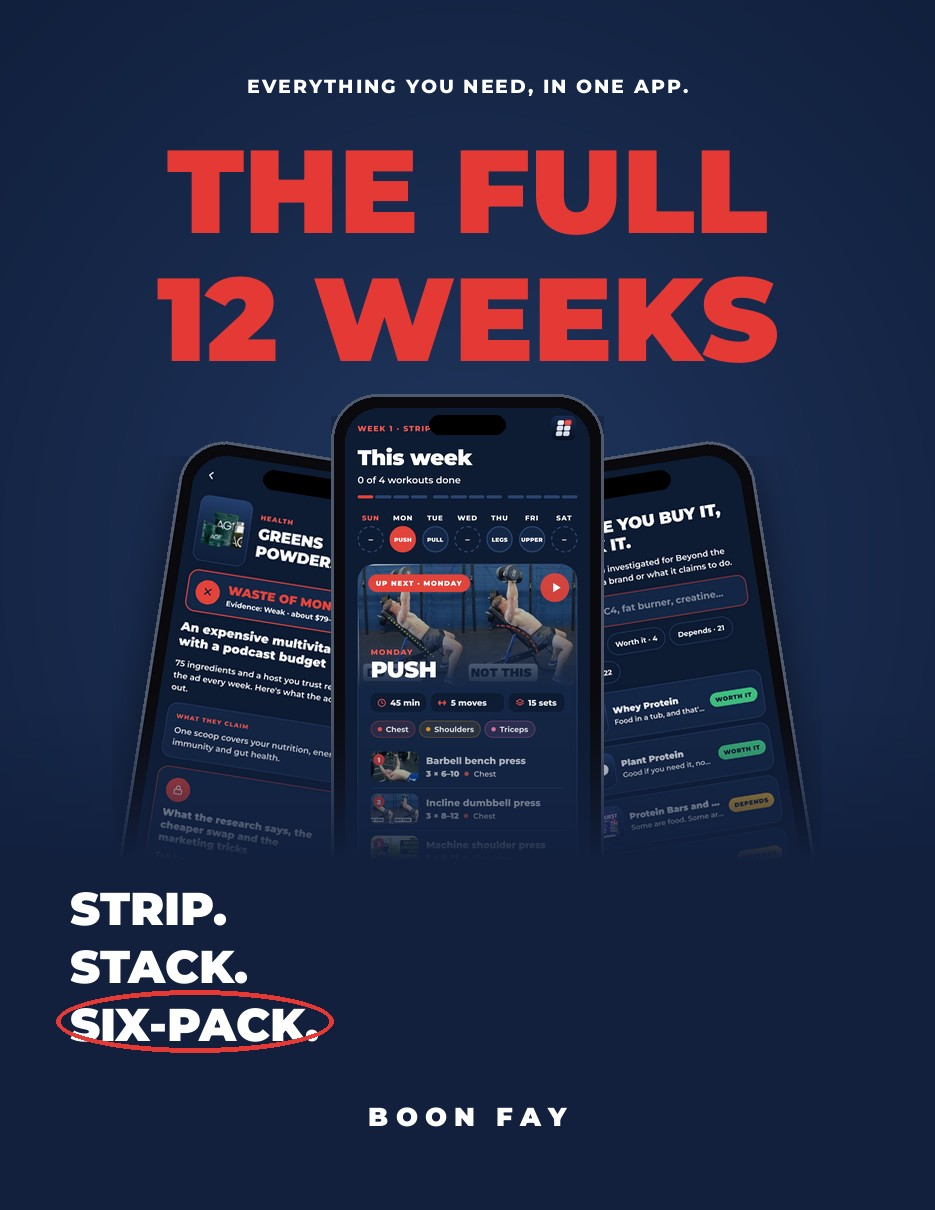
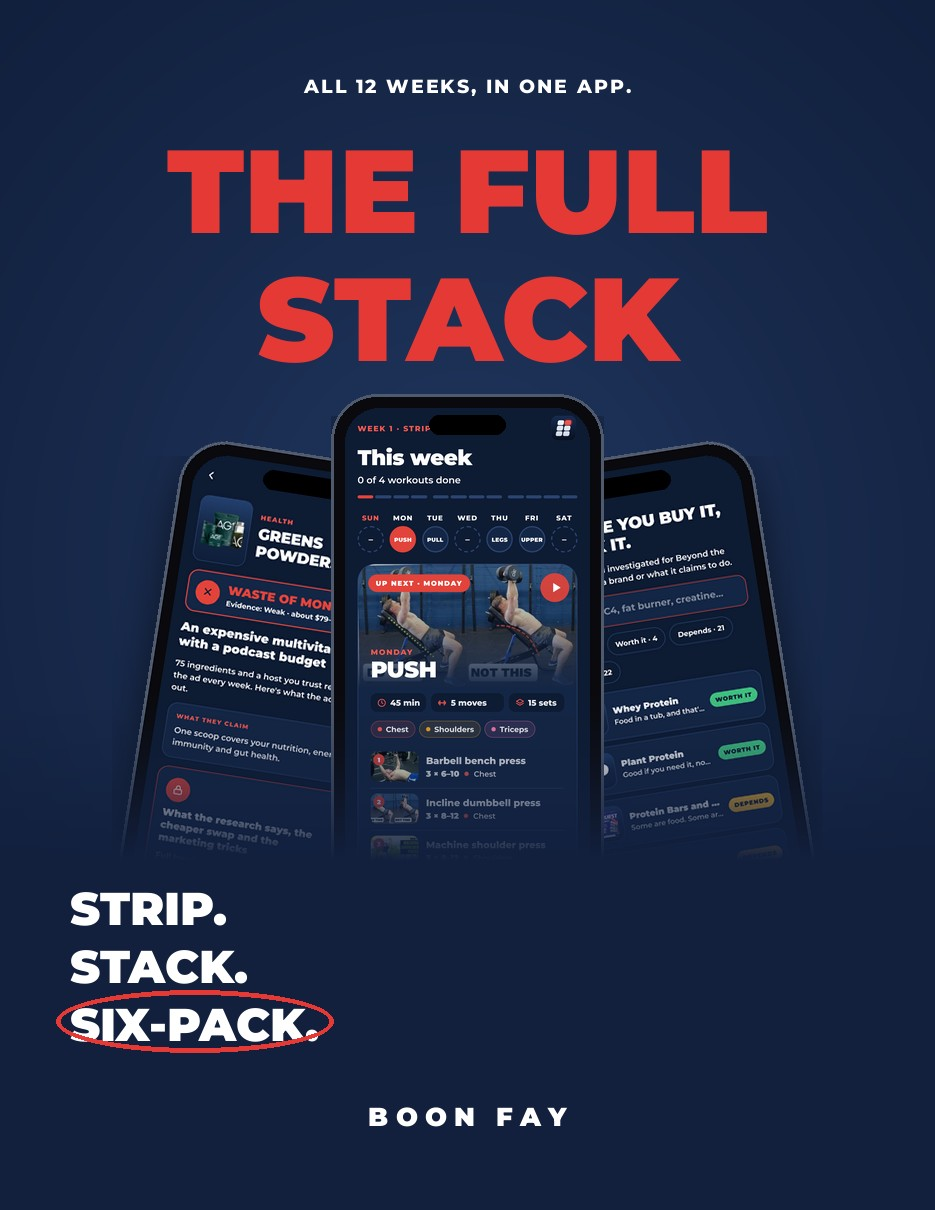
Rename offers: The Free Stack (2 weeks free) and The Full Stack (12 weeks); new Full Stack cover
Claude-Session: https://claude.ai/code/session_01Bf86E4ucw6eJutAMhaLVMs

Changed region(s): [[0.1551, 0.214, 0.8374, 0.3058], [0.2481, 0.0612, 0.7444, 0.0917]]

diff --git a/app/(tabs)/boon.tsx b/app/(tabs)/boon.tsx
@@ -25,7 +25,7 @@ export default function Boon() {
   const router = useRouter();
   const free = isFree(profile);
   const coached = isCoached(profile) || profile?.role === 'coach';
-  const sub = !free && !coached; // Full 12-Week Program subscriber
+  const sub = !free && !coached; // The Full Stack subscriber
 
   useFocusEffect(useCallback(() => {
     if (!session) return;
@@ -41,7 +41,7 @@ export default function Boon() {
         {free || sub ? (
           <HeroCard image={FACE_IMG} imageRatio={16 / 9} title="Want me in your corner?"
             subtitle={sub
-              ? "You've got the full program. If you want me reviewing your check-ins every Sunday and answering you on WhatsApp, you get $100 off coaching. Mention it in your application."
+              ? "You've got The Full Stack. If you want me reviewing your check-ins every Sunday and answering you on WhatsApp, you get $100 off coaching. Mention it in your application."
               : "I audit your supplements, build your plan around your life, review your check-in every Sunday and answer you on WhatsApp."}
             cta="See how coaching works" onPress={() => Linking.openURL(COACHING_URL)} />
         ) : (
@@ -62,7 +62,7 @@ export default function Boon() {
         <>
           <Eyebrow>Your program</Eyebrow>
           <Card>
-            <Text style={ui.label}>The Full 12-Week Program</Text>
+            <Text style={ui.label}>The Full Stack</Text>
             <Body>All 12 weeks are unlocked: your training, your meal plan, eating-out orders, the grocery list and every Stack Check verdict. Your calories re-set at weeks 4 and 8, so do your Sunday check-in.</Body>
           </Card>
           <CoachingCard />

diff --git a/app/lead.tsx b/app/lead.tsx
@@ -10,9 +10,9 @@ import { BackIcon, CheckIcon } from '../src/components/icons';
 import { captureLead, readLead, Want } from '../src/lib/lead';
 
 const COPY: Record<Want, { k: string; h: string; sub: string; cta: string; next: string }> = {
-  plan: { k: 'Your first 2 weeks free', h: 'Where should I send your plan?', sub: 'Next: a 2-minute quiz, then your plan is built from your answers.', cta: 'Build my plan', next: '/quiz' },
+  plan: { k: 'The Free Stack · 2 weeks free', h: 'Where should I send your plan?', sub: 'Next: a 2-minute quiz, then your plan is built from your answers.', cta: 'Build my plan', next: '/quiz' },
   btl: { k: 'Beyond the Label', h: 'Where should I send it?', sub: "You'll see everything inside Beyond the Label next.", cta: 'Show me', next: '/btl' },
-  sub: { k: 'The full app', h: 'Where should I send your plan?', sub: 'Next: a 2-minute quiz to build your plan. Weeks 1 and 2 are free, then unlock all 12 weeks.', cta: 'Build my plan', next: '/quiz' },
+  sub: { k: 'The Full Stack', h: 'Where should I send your plan?', sub: 'Next: a 2-minute quiz to build your plan. Weeks 1 and 2 are free, then unlock all 12 weeks.', cta: 'Build my plan', next: '/quiz' },
   coaching: { k: '1:1 coaching', h: 'Where should I send the details?', sub: "Next: everything you get with 1:1 coaching, and the Abs or It's Free guarantee.", cta: 'Show me', next: 'coaching' },
 };
 

diff --git a/app/welcome.tsx b/app/welcome.tsx
@@ -14,9 +14,9 @@ const LOGO = require('../assets/logo-b.png');
 
 
 const PATHS: { want: Want; img: ImageSourcePropType; tag: string; price: string; title: string; line: string; contain?: boolean }[] = [
-  { want: 'plan', img: PLAN, tag: 'Start here', price: 'Free', title: 'Try the plan free', line: 'Your calories, your meals and your first 2 weeks of training, built from a 2-minute quiz.' },
+  { want: 'plan', img: PLAN, tag: 'Start here', price: 'Free', title: 'The Free Stack', line: 'Your first 2 weeks free: your calories, your meals and your training, built from a 2-minute quiz.' },
   { want: 'btl', img: BTL, tag: 'The guide', price: '$39.99', title: 'Beyond the Label', line: 'What actually works out of 40+ supplements and gadgets, and what\'s marketing.' },
-  { want: 'sub', img: APP, tag: 'Best value', price: '$19.99/mo', title: 'The Full 12-Week Program', line: 'Everything you need to finish the 12 weeks on your own. Or $99 a year ($1.90 a week).' },
+  { want: 'sub', img: APP, tag: 'Best value', price: '$19.99/mo', title: 'The Full Stack', line: 'All 12 weeks: everything you need to finish on your own. Or $99 a year ($1.90 a week).' },
   { want: 'coaching', img: COACH, tag: '1:1 with Boon', price: 'Apply', title: 'Six-Pack Stack Coaching', line: 'I audit your stack, build your plan and check in with you every Sunday for 12 weeks.' },
 ];
 

diff --git a/src/components/Offers.tsx b/src/components/Offers.tsx
@@ -36,8 +36,8 @@ export function SubscriptionCard({ onStart }: { onStart?: (plan: 'yearly' | 'mon
   return (
     <View style={[st.card, { borderColor: C.red }]}>
       <Cover src={PROGRAM_IMG} />
-      <Text style={st.kicker}>The full app</Text>
-      <Text style={st.title}>The Full 12-Week Program</Text>
+      <Text style={st.kicker}>All 12 weeks</Text>
+      <Text style={st.title}>The Full Stack</Text>
       <View style={{ flexDirection: 'row', gap: 10 }}>
         <Opt id="yearly" title="Yearly" price="$99" per="/yr" note="$1.90 a week · 7-day free trial" best />
         <Opt id="monthly" title="Monthly" price="$19.99" per="/mo" note="Cancel anytime" />
@@ -94,7 +94,7 @@ export function LockedWeek({ week, onUnlock }: { week: number; onUnlock: () => v
     <Pressable accessibilityRole="button" onPress={onUnlock} style={st.locked}>
       <View style={st.lockIcon}><LockIcon size={22} /></View>
       <Text style={st.kicker}>Week {week} is ready</Text>
-      <Text style={st.title}>Your free 2 weeks are done.</Text>
+      <Text style={st.title}>Your Free Stack is done.</Text>
       <Text style={st.body}>Don't stop now. The next 10 weeks are where the results show. Unlock the rest of your plan to keep going.</Text>
       <View style={st.btn}><Text style={st.btnText}>Unlock weeks 3–12</Text></View>
     </Pressable>

diff --git a/app/(tabs)/coach.tsx b/app/(tabs)/coach.tsx
@@ -49,8 +49,8 @@ export default function Coach() {
           <Text style={st.section}>View the full app as</Text>
           <Text style={st.meta}>Opens every tab exactly as they'd see it, with a sample plan for "Jake". Tap Exit on the red bar to come back. Nothing saves.</Text>
           {([
-            ['free', 'Free plan user', 'Weeks 1–2 open, weeks 3–12 locked, offers on the Boon tab'],
-            ['self', 'Full 12-Week Program', 'The $19.99/mo or $99/yr subscriber: all 12 weeks, meals, Stack Check, on their own'],
+            ['free', 'The Free Stack', 'Weeks 1–2 open, weeks 3–12 locked, offers on the Boon tab'],
+            ['self', 'The Full Stack', 'The $19.99/mo or $99/yr subscriber: all 12 weeks, meals, Stack Check, on their own'],
             ['coached', 'Coaching client', 'Everything, plus your Sunday reviews and WhatsApp'],
           ] as [ViewAs, string, string][]).map(([v, l, d]) => (
             <Pressable key={v} accessibilityRole="button" onPress={() => viewAs(v)} style={st.vrow}>

diff --git a/src/lib/access.ts b/src/lib/access.ts
@@ -1,11 +1,11 @@
 import type { Profile } from './types';
 
-/** Free plan: weeks 1–2 open, weeks 3–12 need the subscription (or coaching). */
+/** The Free Stack: weeks 1–2 open, weeks 3–12 need the subscription (or coaching). */
 export const FREE_WEEKS = 2;
 export const isFree = (p?: Profile | null) => !!p && p.role === 'client' && p.tier === 'free';
 /** 1:1 coaching client: Boon reads their check-ins and answers on WhatsApp. */
 export const isCoached = (p?: Profile | null) => !!p && p.role === 'client' && p.tier === 'coached';
-/** Full 12-Week Program subscriber: everything unlocked, on their own (no Boon reviews). */
+/** The Full Stack subscriber: everything unlocked, on their own (no Boon reviews). */
 export const isSubscriber = (p?: Profile | null) => !!p && p.role === 'client' && p.tier === 'self';
 export const isLocked = (p: Profile | null | undefined, week: number) => isFree(p) && week > FREE_WEEKS;
 

diff --git a/app/apply.tsx b/app/apply.tsx
@@ -74,7 +74,7 @@ export default function Apply() {
         <Text style={st.body}>I read every application myself, within 24 hours. Watch your inbox at {f.email.trim()}. If we're a fit, you'll get a short video I recorded for you and a link to claim your spot.</Text>
         <Text style={st.body}>Check your spam or promotions folder and move my email to your main inbox so you don't miss it.</Text>
         {session ? <Button title="Back to my plan" onPress={() => router.back()} />
-          : <Button title="Get my free plan while you wait" onPress={() => router.replace('/quiz')} />}
+          : <Button title="Get The Free Stack while you wait" onPress={() => router.replace('/quiz')} />}
       </SafeAreaView>
     );
   }

diff --git a/app/(tabs)/index.tsx b/app/(tabs)/index.tsx
@@ -102,7 +102,7 @@ export default function Today() {
         {isFree(profile) && !isLocked(profile, week) && (
           <Pressable accessibilityRole="button" onPress={() => router.push('/unlock')} style={st.free}>
             <View style={{ flex: 1, gap: 2 }}>
-              <Text style={st.freeK}>Free plan · week {week} of {FREE_WEEKS}</Text>
+              <Text style={st.freeK}>The Free Stack · week {week} of {FREE_WEEKS}</Text>
               <Text style={st.freeT}>{FREE_WEEKS - week + 1 === 1 ? 'Last free week. Unlock weeks 3–12' : 'Weeks 3–12: see your options'}</Text>
             </View>
             <Text style={st.chev}>›</Text>

diff --git a/src/lib/preview.ts b/src/lib/preview.ts
@@ -1,13 +1,13 @@
 /**
  * Coach-only "View the app as" mode. While it's on, the coach sees the app exactly
- * as a free user, a Full 12-Week Program subscriber or a coaching client would,
+ * as a Free Stack user, a Full Stack subscriber or a coaching client would,
  * with a sample plan. Nothing is saved: workout sets and check-ins are skipped.
  */
 export type ViewAs = 'free' | 'self' | 'coached';
 
 export const VIEW_AS_LABEL: Record<ViewAs, string> = {
-  free: 'Free plan user',
-  self: 'Full 12-Week Program',
+  free: 'The Free Stack',
+  self: 'The Full Stack',
   coached: 'Coaching client',
 };
 
